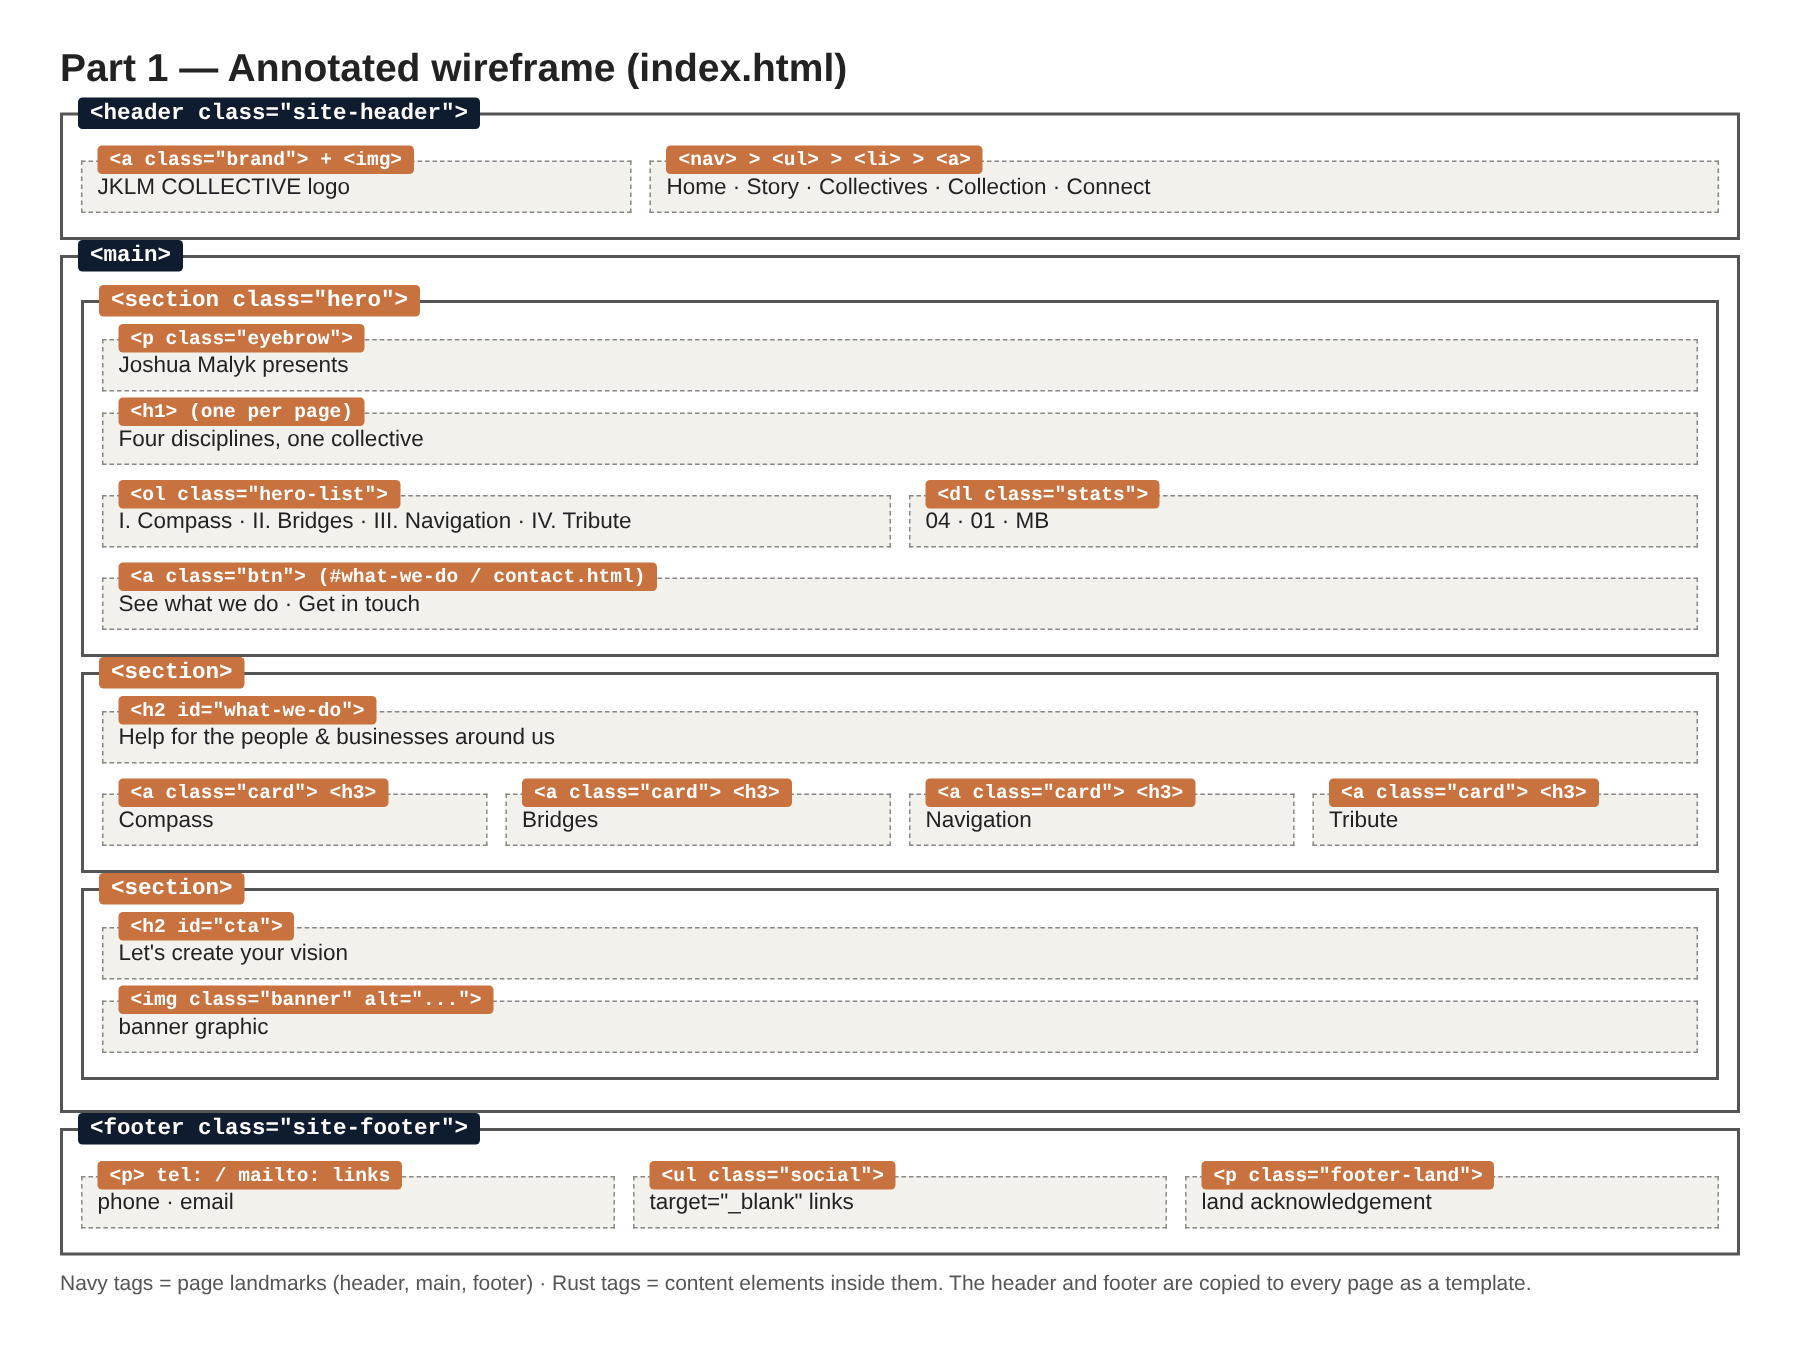
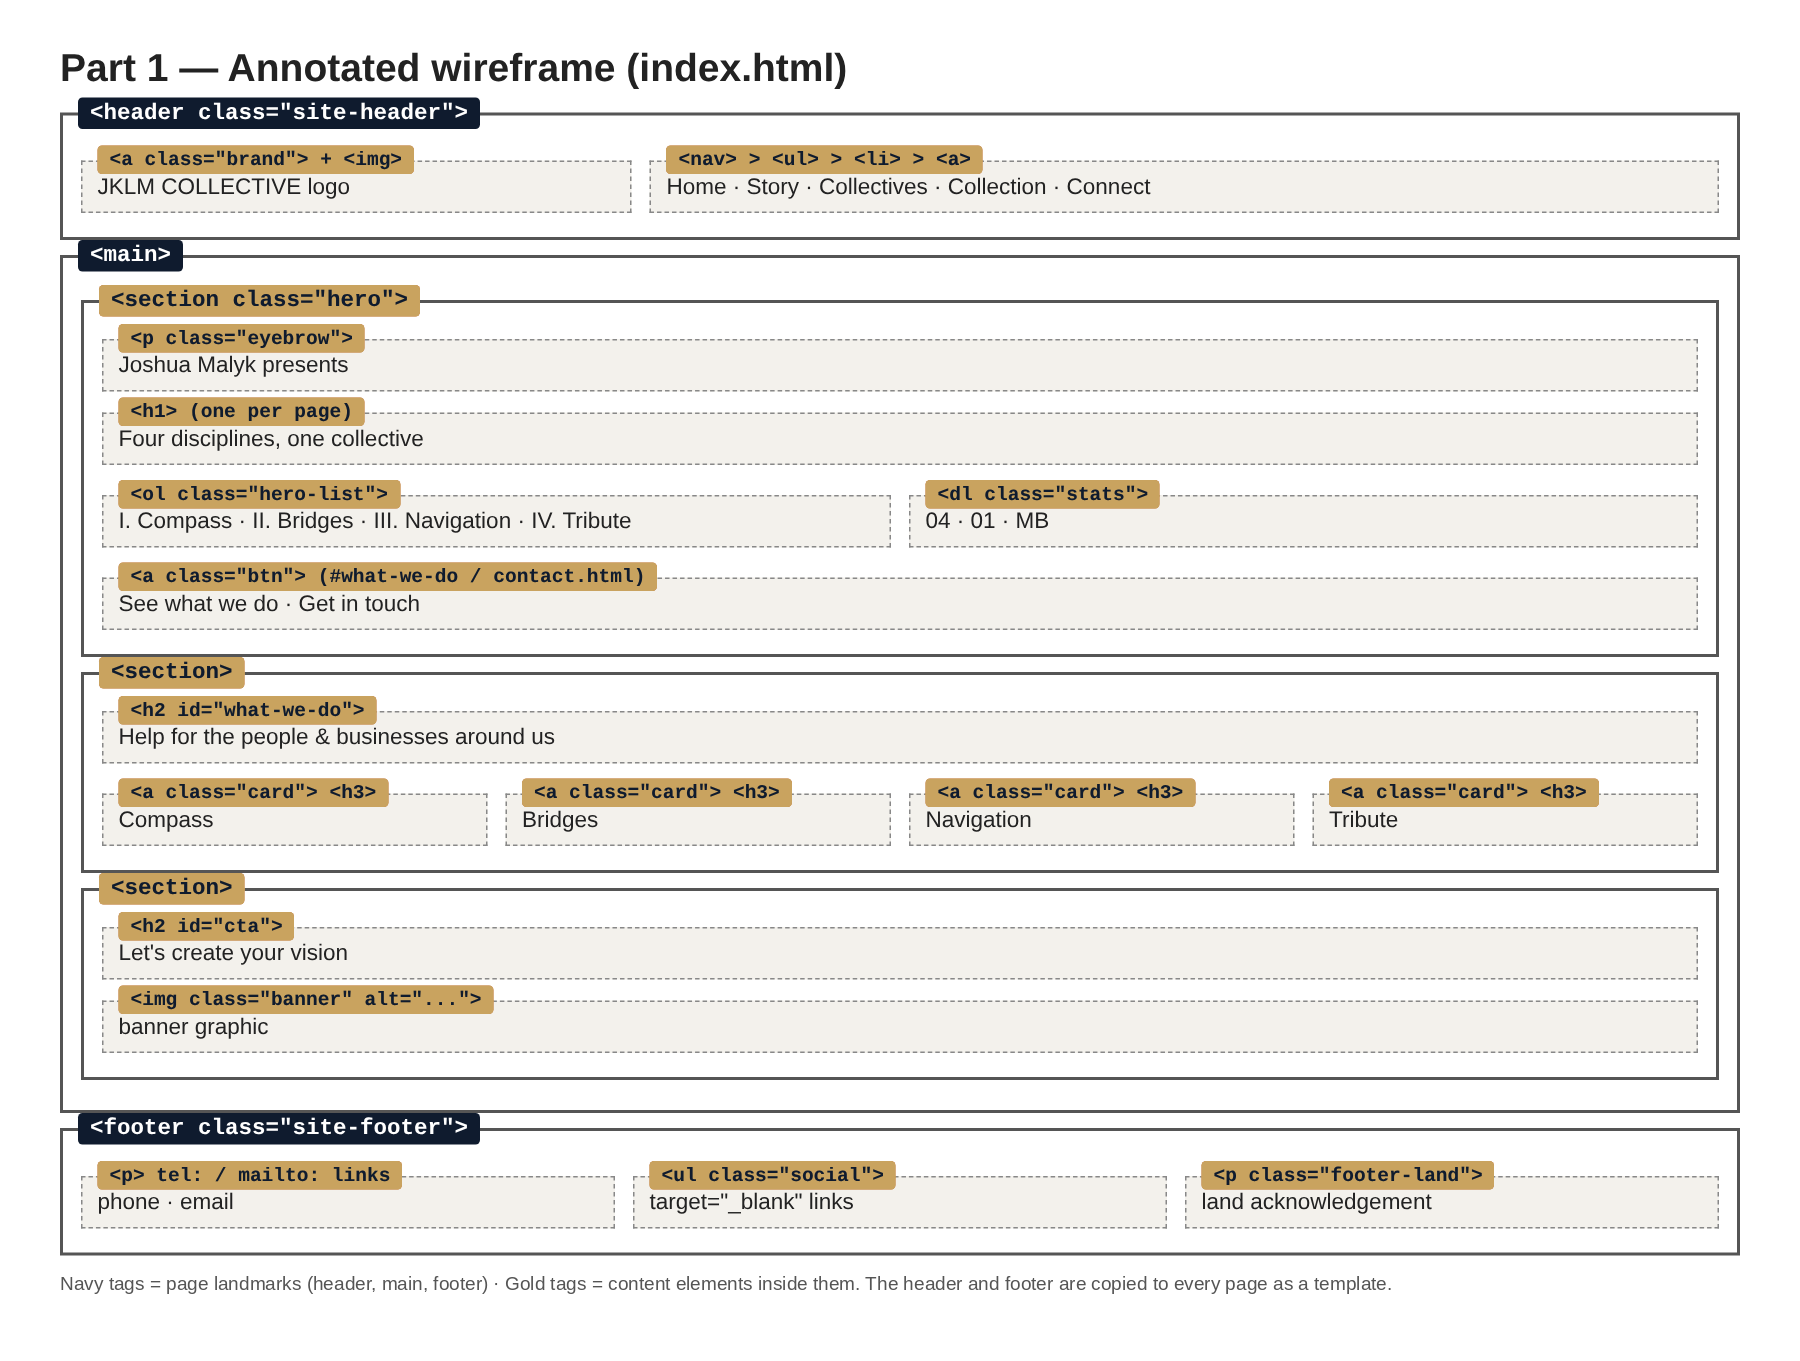
Capstone: master Manitoba land acknowledgement, Manitoba wording, gold wireframe tags
Claude-Session: https://claude.ai/code/session_01Tu6bTBzkX1ZA2YC3nyz3An

diff --git a/about.html b/about.html
@@ -3,7 +3,7 @@
 <head>
   <meta charset="utf-8">
   <meta name="viewport" content="width=device-width, initial-scale=1">
-  <title>The Story Behind JKLM Collective | Joshua Malyk, Brandon Manitoba</title>
+  <title>The Story Behind JKLM Collective | Joshua Malyk, Manitoba</title>
   <meta name="description" content="Meet the four names behind JKLM Collective: Joshua, Kenneth, Layne and Malyk. One promise: show up for the people with the vision.">
   <link rel="icon" href="images/jklm-emblem.png">
   <!-- Google Fonts: Zilla Slab (headings), Archivo (body), Special Elite (labels) -->
@@ -120,7 +120,7 @@
     </div>
     <h2 id="land">Showing up for <em>this land</em></h2>
       <div class="land">
-        <p>JKLM Collective is based in Brandon, Manitoba, on Treaty 2 territory. This land is the traditional territory of the Anishinaabeg, Cree, Oji-Cree, Assiniboine, Dakota and Dene Peoples, and the homeland of the Métis Nation.</p>
+        <p>JKLM Collective is based in Manitoba, on Treaty 1, 2, 3, 4, 5, 6 and 10 territories. These are the ancestral lands of the Anishinaabeg, Cree, Oji-Cree, Dakota and Dene Peoples, and Manitoba is the homeland of the Red River Métis. Northern Manitoba also includes the ancestral lands of the Inuit.</p>
         <p>I am grateful to live and work here. Much of what I have learned about design and technology came through IndigiTECH, and I want JKLM Collective to show up for this community with the same respect that the people of this land have shown it for generations.</p>
       </div>
     </section>
@@ -140,7 +140,7 @@
       <li><a href="https://www.facebook.com/" target="_blank" rel="noopener" aria-label="Facebook (opens in a new tab)"><svg viewBox="0 0 24 24" fill="currentColor" aria-hidden="true"><path d="M13.5 21v-7.5h2.5l.4-3h-2.9V8.6c0-.87.25-1.46 1.5-1.46h1.55V4.47A20.7 20.7 0 0 0 14.3 4.3c-2.2 0-3.7 1.34-3.7 3.8v2.4H8.1v3h2.5V21z"/></svg></a></li>
       <li><a href="https://sites.google.com/view/jklm-collective/home" target="_blank" rel="noopener" aria-label="JKLM Collective Google Site (opens in a new tab)"><svg viewBox="0 0 24 24" fill="none" stroke="currentColor" stroke-width="2" stroke-linecap="round" aria-hidden="true"><path d="M10 14a4 4 0 0 0 5.66 0l3-3a4 4 0 0 0-5.66-5.66l-1 1"/><path d="M14 10a4 4 0 0 0-5.66 0l-3 3a4 4 0 0 0 5.66 5.66l1-1"/></svg></a></li>
     </ul>
-    <p class="footer-land">JKLM Collective is based in Treaty 2 territory, the traditional lands of the Anishinaabeg, Cree, Oji-Cree, Assiniboine, Dakota and Dene Peoples and the homeland of the Métis Nation. <a href="about.html#land">Read the land acknowledgement</a>.</p>
+    <p class="footer-land">JKLM Collective is based in Manitoba, on Treaty 1, 2, 3, 4, 5, 6 and 10 territories, the ancestral lands of the Anishinaabeg, Cree, Oji-Cree, Dakota and Dene Peoples and the homeland of the Red River Métis. <a href="about.html#land">Read the land acknowledgement</a>.</p>
     <img class="footer-emblem" src="images/jklm-emblem.png" alt="JKLM Collective compass emblem" width="130" height="113">
     <p class="footer-copy">© 2026 JKLM Collective · Joshua Malyk</p>
   </footer>

diff --git a/index.html b/index.html
@@ -4,7 +4,7 @@
   <meta charset="utf-8">
   <meta name="viewport" content="width=device-width, initial-scale=1">
   <title>JKLM Collective | Career, Small Business, Digital and Memorial Services in Manitoba</title>
-  <meta name="description" content="JKLM Collective is a community-focused collective in Brandon, Manitoba offering career help, small business branding, websites and memorial tributes.">
+  <meta name="description" content="JKLM Collective is a community-focused collective in Manitoba offering career help, small business branding, websites and memorial tributes.">
   <link rel="icon" href="images/jklm-emblem.png">
   <!-- Google Fonts: Zilla Slab (headings), Archivo (body), Special Elite (labels) -->
   <link rel="preconnect" href="https://fonts.googleapis.com">
@@ -68,7 +68,7 @@
       <img class="badge" src="images/jklm-emblem.png" alt="" width="90" height="79">
     </div>
     <h2 id="what-we-do">Help for the people &amp; businesses <em>around us</em></h2>
-      <p class="lede">JKLM Collective is a community-focused collective based in Brandon, Manitoba. It helps job seekers, small businesses and families with the digital and practical work that is hard to do alone.</p>
+      <p class="lede">JKLM Collective is a community-focused collective based in Manitoba. It helps job seekers, small businesses and families with the digital and practical work that is hard to do alone.</p>
       <div class="card-grid">
       <a class="card" href="services.html#compass">
         <p class="eyebrow">I. Compass</p>
@@ -122,7 +122,7 @@
       <li><a href="https://www.facebook.com/" target="_blank" rel="noopener" aria-label="Facebook (opens in a new tab)"><svg viewBox="0 0 24 24" fill="currentColor" aria-hidden="true"><path d="M13.5 21v-7.5h2.5l.4-3h-2.9V8.6c0-.87.25-1.46 1.5-1.46h1.55V4.47A20.7 20.7 0 0 0 14.3 4.3c-2.2 0-3.7 1.34-3.7 3.8v2.4H8.1v3h2.5V21z"/></svg></a></li>
       <li><a href="https://sites.google.com/view/jklm-collective/home" target="_blank" rel="noopener" aria-label="JKLM Collective Google Site (opens in a new tab)"><svg viewBox="0 0 24 24" fill="none" stroke="currentColor" stroke-width="2" stroke-linecap="round" aria-hidden="true"><path d="M10 14a4 4 0 0 0 5.66 0l3-3a4 4 0 0 0-5.66-5.66l-1 1"/><path d="M14 10a4 4 0 0 0-5.66 0l-3 3a4 4 0 0 0 5.66 5.66l1-1"/></svg></a></li>
     </ul>
-    <p class="footer-land">JKLM Collective is based in Treaty 2 territory, the traditional lands of the Anishinaabeg, Cree, Oji-Cree, Assiniboine, Dakota and Dene Peoples and the homeland of the Métis Nation. <a href="about.html#land">Read the land acknowledgement</a>.</p>
+    <p class="footer-land">JKLM Collective is based in Manitoba, on Treaty 1, 2, 3, 4, 5, 6 and 10 territories, the ancestral lands of the Anishinaabeg, Cree, Oji-Cree, Dakota and Dene Peoples and the homeland of the Red River Métis. <a href="about.html#land">Read the land acknowledgement</a>.</p>
     <img class="footer-emblem" src="images/jklm-emblem.png" alt="JKLM Collective compass emblem" width="130" height="113">
     <p class="footer-copy">© 2026 JKLM Collective · Joshua Malyk</p>
   </footer>

diff --git a/contact.html b/contact.html
@@ -3,7 +3,7 @@
 <head>
   <meta charset="utf-8">
   <meta name="viewport" content="width=device-width, initial-scale=1">
-  <title>Contact JKLM Collective | Joshua Malyk, Brandon Manitoba</title>
+  <title>Contact JKLM Collective | Joshua Malyk, Manitoba</title>
   <meta name="description" content="Contact Joshua Malyk at JKLM Collective in Manitoba by phone, email or LinkedIn to start a resume, brand, website or memorial project.">
   <link rel="icon" href="images/jklm-emblem.png">
   <!-- Google Fonts: Zilla Slab (headings), Archivo (body), Special Elite (labels) -->
@@ -79,7 +79,7 @@
         <li><span class="label">Email</span><a href="mailto:j.malyk07@gmail.com">j.malyk07@gmail.com</a></li>
         <li><span class="label">LinkedIn</span><a href="https://www.linkedin.com/in/joshua-malyk/" target="_blank" rel="noopener">linkedin.com/in/joshua-malyk</a></li>
         <li><span class="label">Google Site</span><a href="https://sites.google.com/view/jklm-collective/home" target="_blank" rel="noopener">JKLM Collective on Google Sites</a></li>
-        <li><span class="label">Location</span><span>Brandon, Manitoba, Canada</span></li>
+        <li><span class="label">Location</span><span>Manitoba, Canada</span></li>
       </ul>
       <div class="btn-row">
         <a class="btn btn-primary" href="mailto:j.malyk07@gmail.com?subject=New%20project%20with%20JKLM%20Collective">Email Joshua →</a>
@@ -102,7 +102,7 @@
       <li><a href="https://www.facebook.com/" target="_blank" rel="noopener" aria-label="Facebook (opens in a new tab)"><svg viewBox="0 0 24 24" fill="currentColor" aria-hidden="true"><path d="M13.5 21v-7.5h2.5l.4-3h-2.9V8.6c0-.87.25-1.46 1.5-1.46h1.55V4.47A20.7 20.7 0 0 0 14.3 4.3c-2.2 0-3.7 1.34-3.7 3.8v2.4H8.1v3h2.5V21z"/></svg></a></li>
       <li><a href="https://sites.google.com/view/jklm-collective/home" target="_blank" rel="noopener" aria-label="JKLM Collective Google Site (opens in a new tab)"><svg viewBox="0 0 24 24" fill="none" stroke="currentColor" stroke-width="2" stroke-linecap="round" aria-hidden="true"><path d="M10 14a4 4 0 0 0 5.66 0l3-3a4 4 0 0 0-5.66-5.66l-1 1"/><path d="M14 10a4 4 0 0 0-5.66 0l-3 3a4 4 0 0 0 5.66 5.66l1-1"/></svg></a></li>
     </ul>
-    <p class="footer-land">JKLM Collective is based in Treaty 2 territory, the traditional lands of the Anishinaabeg, Cree, Oji-Cree, Assiniboine, Dakota and Dene Peoples and the homeland of the Métis Nation. <a href="about.html#land">Read the land acknowledgement</a>.</p>
+    <p class="footer-land">JKLM Collective is based in Manitoba, on Treaty 1, 2, 3, 4, 5, 6 and 10 territories, the ancestral lands of the Anishinaabeg, Cree, Oji-Cree, Dakota and Dene Peoples and the homeland of the Red River Métis. <a href="about.html#land">Read the land acknowledgement</a>.</p>
     <img class="footer-emblem" src="images/jklm-emblem.png" alt="JKLM Collective compass emblem" width="130" height="113">
     <p class="footer-copy">© 2026 JKLM Collective · Joshua Malyk</p>
   </footer>

diff --git a/collection.html b/collection.html
@@ -159,7 +159,7 @@
       <li><a href="https://www.facebook.com/" target="_blank" rel="noopener" aria-label="Facebook (opens in a new tab)"><svg viewBox="0 0 24 24" fill="currentColor" aria-hidden="true"><path d="M13.5 21v-7.5h2.5l.4-3h-2.9V8.6c0-.87.25-1.46 1.5-1.46h1.55V4.47A20.7 20.7 0 0 0 14.3 4.3c-2.2 0-3.7 1.34-3.7 3.8v2.4H8.1v3h2.5V21z"/></svg></a></li>
       <li><a href="https://sites.google.com/view/jklm-collective/home" target="_blank" rel="noopener" aria-label="JKLM Collective Google Site (opens in a new tab)"><svg viewBox="0 0 24 24" fill="none" stroke="currentColor" stroke-width="2" stroke-linecap="round" aria-hidden="true"><path d="M10 14a4 4 0 0 0 5.66 0l3-3a4 4 0 0 0-5.66-5.66l-1 1"/><path d="M14 10a4 4 0 0 0-5.66 0l-3 3a4 4 0 0 0 5.66 5.66l1-1"/></svg></a></li>
     </ul>
-    <p class="footer-land">JKLM Collective is based in Treaty 2 territory, the traditional lands of the Anishinaabeg, Cree, Oji-Cree, Assiniboine, Dakota and Dene Peoples and the homeland of the Métis Nation. <a href="about.html#land">Read the land acknowledgement</a>.</p>
+    <p class="footer-land">JKLM Collective is based in Manitoba, on Treaty 1, 2, 3, 4, 5, 6 and 10 territories, the ancestral lands of the Anishinaabeg, Cree, Oji-Cree, Dakota and Dene Peoples and the homeland of the Red River Métis. <a href="about.html#land">Read the land acknowledgement</a>.</p>
     <img class="footer-emblem" src="images/jklm-emblem.png" alt="JKLM Collective compass emblem" width="130" height="113">
     <p class="footer-copy">© 2026 JKLM Collective · Joshua Malyk</p>
   </footer>

diff --git a/services.html b/services.html
@@ -127,7 +127,7 @@
       <li><a href="https://www.facebook.com/" target="_blank" rel="noopener" aria-label="Facebook (opens in a new tab)"><svg viewBox="0 0 24 24" fill="currentColor" aria-hidden="true"><path d="M13.5 21v-7.5h2.5l.4-3h-2.9V8.6c0-.87.25-1.46 1.5-1.46h1.55V4.47A20.7 20.7 0 0 0 14.3 4.3c-2.2 0-3.7 1.34-3.7 3.8v2.4H8.1v3h2.5V21z"/></svg></a></li>
       <li><a href="https://sites.google.com/view/jklm-collective/home" target="_blank" rel="noopener" aria-label="JKLM Collective Google Site (opens in a new tab)"><svg viewBox="0 0 24 24" fill="none" stroke="currentColor" stroke-width="2" stroke-linecap="round" aria-hidden="true"><path d="M10 14a4 4 0 0 0 5.66 0l3-3a4 4 0 0 0-5.66-5.66l-1 1"/><path d="M14 10a4 4 0 0 0-5.66 0l-3 3a4 4 0 0 0 5.66 5.66l1-1"/></svg></a></li>
     </ul>
-    <p class="footer-land">JKLM Collective is based in Treaty 2 territory, the traditional lands of the Anishinaabeg, Cree, Oji-Cree, Assiniboine, Dakota and Dene Peoples and the homeland of the Métis Nation. <a href="about.html#land">Read the land acknowledgement</a>.</p>
+    <p class="footer-land">JKLM Collective is based in Manitoba, on Treaty 1, 2, 3, 4, 5, 6 and 10 territories, the ancestral lands of the Anishinaabeg, Cree, Oji-Cree, Dakota and Dene Peoples and the homeland of the Red River Métis. <a href="about.html#land">Read the land acknowledgement</a>.</p>
     <img class="footer-emblem" src="images/jklm-emblem.png" alt="JKLM Collective compass emblem" width="130" height="113">
     <p class="footer-copy">© 2026 JKLM Collective · Joshua Malyk</p>
   </footer>
